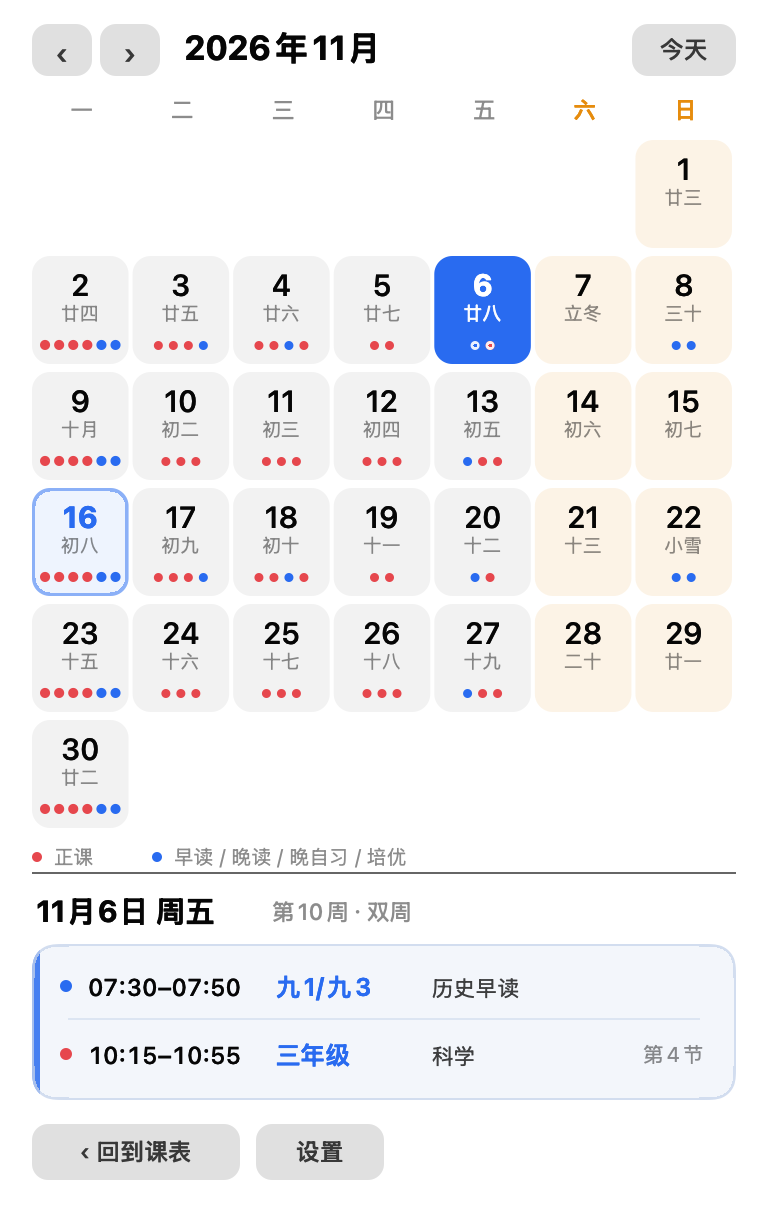
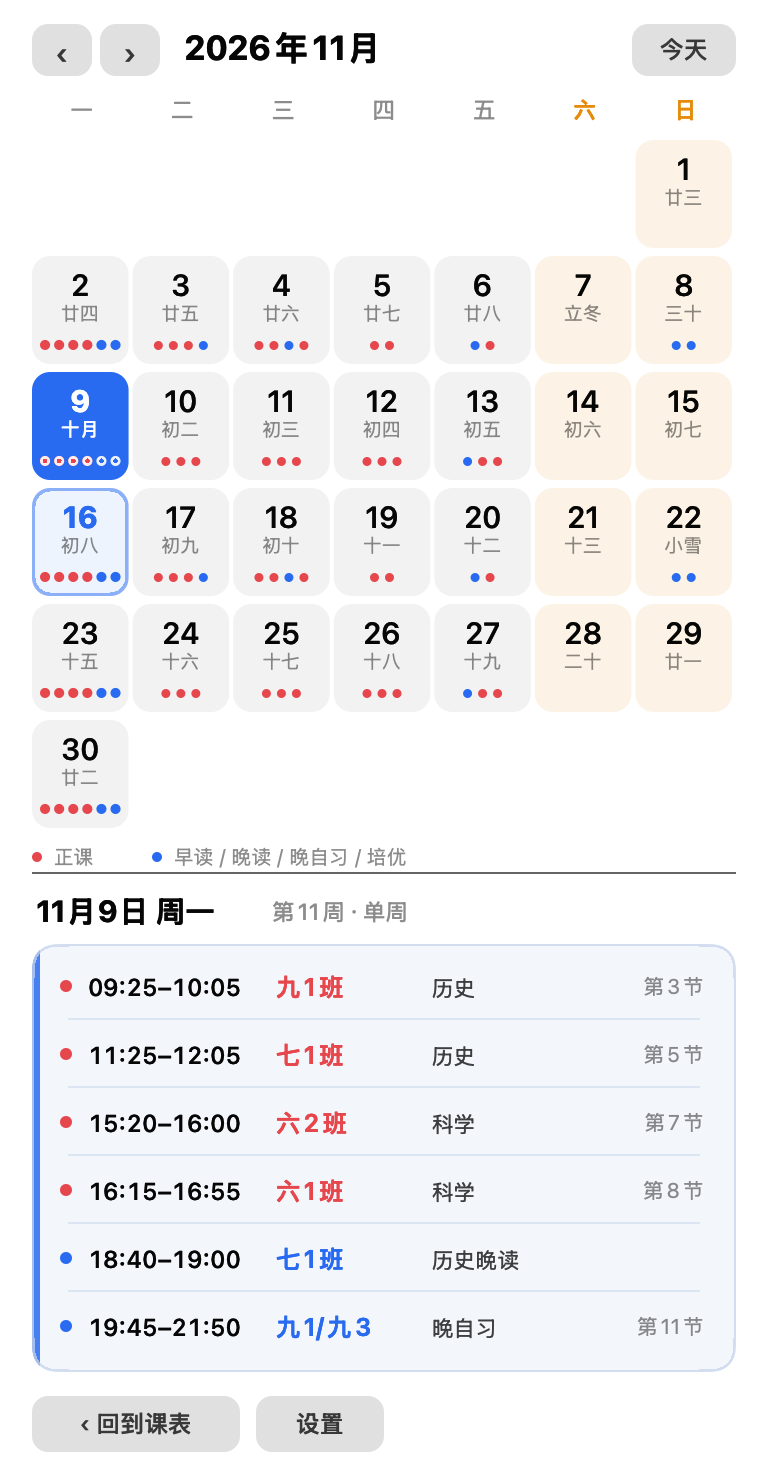
v1.11.1：日历详情的班名按课型分色（正课红、其余蓝）

diff --git a/Sources/main.swift b/Sources/main.swift
@@ -775,7 +775,8 @@ final class ScheduleView: FlippedView {
                 label(c, "\(l.start)–\(l.end)",
                       .monospacedDigitSystemFont(ofSize: 12, weight: .medium), .labelColor,
                       NSRect(x: 26, y: ry + 9, width: 90, height: 17))
-                label(c, l.klass, .systemFont(ofSize: 12.5, weight: .semibold), Palette.accent,
+                label(c, l.klass, .systemFont(ofSize: 12.5, weight: .semibold),
+                      owner.isRegular(l) ? Palette.regular : Palette.accent,
                       NSRect(x: 120, y: ry + 9, width: 76, height: 17))
                 label(c, l.subject, .systemFont(ofSize: 11), .secondaryLabelColor,
                       NSRect(x: 198, y: ry + 10, width: 70, height: 17))

diff --git a/README.md b/README.md
@@ -3,7 +3,7 @@
 <h1 align="center">上课提醒 · ClassReminder</h1>
 
 <p align="center">
-  <a href="../../releases/latest"><img src="https://img.shields.io/badge/version-1.11.0-blue" alt="version"></a>
+  <a href="../../releases/latest"><img src="https://img.shields.io/badge/version-1.11.1-blue" alt="version"></a>
   <img src="https://img.shields.io/badge/macOS-13%2B-black" alt="platform">
   <img src="https://img.shields.io/badge/Swift-5-orange" alt="swift">
   <img src="https://img.shields.io/badge/dependencies-0-green" alt="deps">
@@ -41,7 +41,7 @@
 - 🔔 **两次提醒**：提前 N 分钟蓝色卡片 + 语音；到点换琥珀色卡片再响三声，不语音
 - 🔊 **叫得住人**：大卡片置顶 + 连响三次 + 中文女声播报两遍
 - 📅 **万年历**：1900–2100 任意年月都能翻，每格带农历 / 节气；学期内标出当天课量
-- 🔴 **课型配色**：正课（历史、科学）红点，早读 / 晚读 / 晚自习 / 培优蓝点
+- 🔴 **课型配色**：正课（历史、科学）红点 + 红色班名，早读 / 晚读 / 晚自习 / 培优蓝点
 - 🟡 **周末区分**：周六周日表头用暖色，格子上加一层淡暖底，一眼看出工作日和周末
 - ⚙ **学期设置**：学期开始日、周数、第 1 周是单周还是双周，面板里直接改，立刻生效
 - 🗓 **单双周**：按「第 1 周是哪天、那天算单周还是双周」自动推算，可手动切换
@@ -51,7 +51,7 @@
 
 ## 📦 安装
 
-1. 到 Releases 下载 `ClassReminder-1.11.0.dmg`
+1. 到 Releases 下载 `ClassReminder-1.11.1.dmg`
 2. 双击挂载，把 `上课提醒.app` 拖进「应用程序」
 3. 第一次打开被拦，就在 App 上右键 →「打开」（没有开发者签名）
 
@@ -183,6 +183,7 @@ ClassReminder --shotbar o.png    # 渲染菜单栏示意
 
 完整记录见 [CHANGELOG.md](CHANGELOG.md)。
 
+- **v1.11.1**（2026-11-16）：日历详情里的班名也跟着课型变红/变蓝
 - **v1.11.0**（2026-11-16）：日历区分工作日与周末（表头暖色 + 淡暖底）
 - **v1.10.1**（2026-11-16）：日历圆点全部显示，不再只显示 3 个
 - **v1.10.0**（2026-11-16）：日历按课型分色（正课红、早读晚读晚自习培优蓝）

diff --git a/CHANGELOG.md b/CHANGELOG.md
@@ -1,5 +1,13 @@
 # 🗒 版本记录
 
+## v1.11.1 · 2026-11-16
+
+### 🔧 调整
+
+- 日历下方当天课表的**班名也跟着分色**：正课（历史、科学）用红，早读 / 晚读 / 晚自习 / 培优用蓝
+- 和圆点、左侧小点保持同一套语义
+
+
 ## v1.11.0 · 2026-11-16
 
 ### 🟡 工作日 / 周末区分
